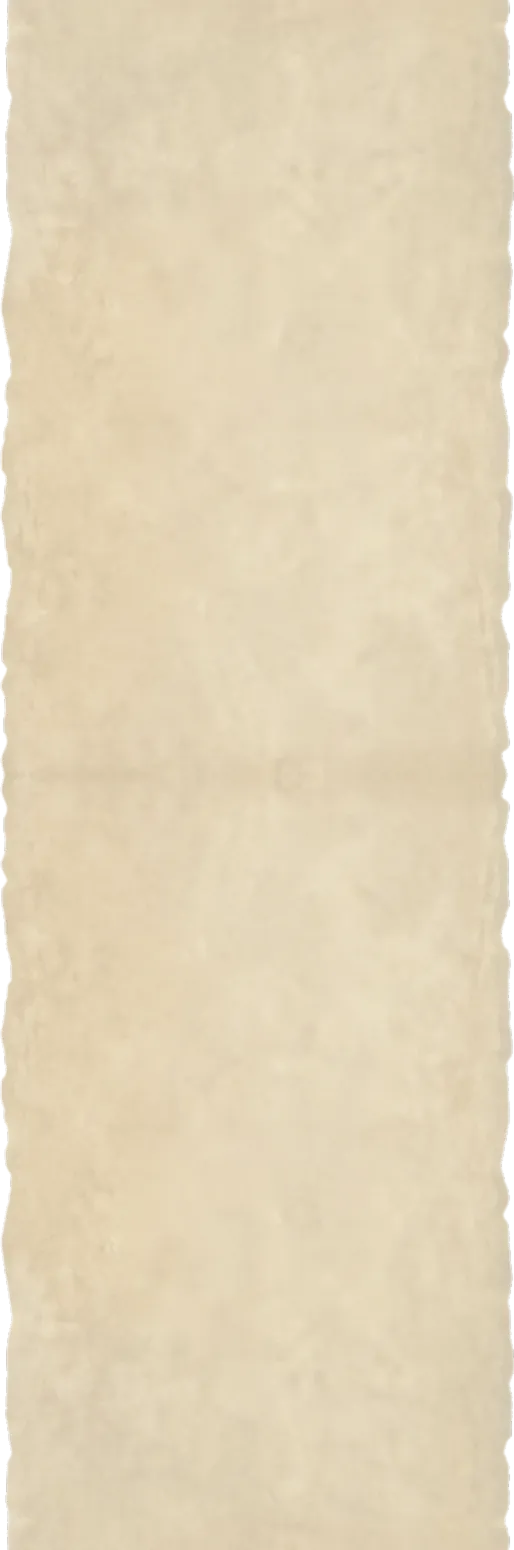
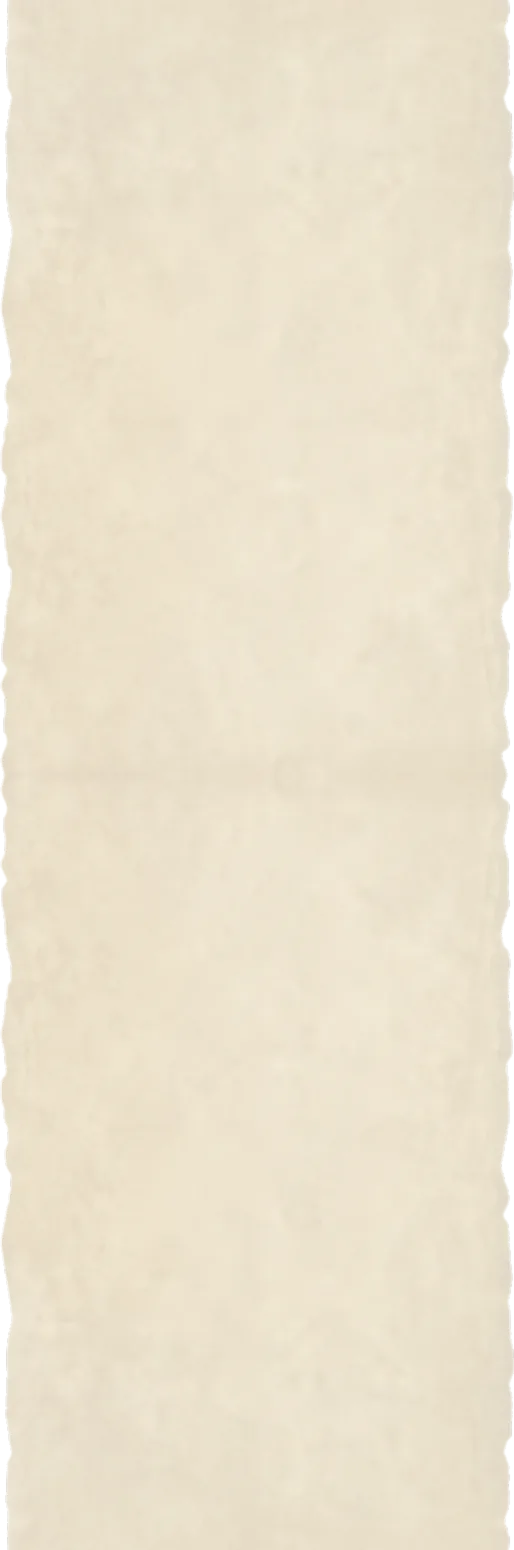
Add files via upload

diff --git a/index.html b/index.html
@@ -404,7 +404,7 @@
     padding:calc(var(--rw) * .09 + 26px) 30px calc(var(--rw) * .09 + 30px);
     border-style:solid; border-width:0 calc(var(--rw) * .675 * 14 / 514);
     border-image:url("caer-papiro.webp") 0 14 fill / 0 calc(var(--rw) * .675 * 14 / 514) / 0 stretch round;
-    background:#F3EBD6; background-clip:padding-box; color:#2E2410;
+    background:#F7F1E2; background-clip:padding-box; color:#2E2410;
     filter:drop-shadow(0 16px 26px rgba(0,0,0,.35));
     animation:uiUnroll .9s cubic-bezier(.2,.7,.2,1) both;}
   #unit-intro-modal .ui-roller-bottom{animation:uiFade .5s .55s ease both;}
@@ -449,7 +449,7 @@
     background:repeating-linear-gradient(180deg,#8A6B2F 0 6px,transparent 6px 11px); opacity:.7;}
   #unit-intro-modal .ui-step:last-child::before{display:none;}
   #unit-intro-modal .ui-dot{position:absolute; left:0; top:2px; width:32px; height:32px; border-radius:50%; display:grid; place-items:center;
-    background:var(--c); color:#fff; font:700 .85rem var(--font-body,sans-serif); box-shadow:0 0 0 3px #F6F0DE, 0 0 0 4.5px #8A6B2F;}
+    background:var(--c); color:#fff; font:700 .85rem var(--font-body,sans-serif); box-shadow:0 0 0 3px #F9F4E8, 0 0 0 4.5px #8A6B2F;}
   #unit-intro-modal .ui-card{background:rgba(255,250,232,.42); border:1px solid rgba(120,95,40,.35); border-left:4px solid var(--c); border-radius:12px; padding:12px 14px;}
   #unit-intro-modal .ui-card h4{margin:0 0 4px; font-family:Georgia,serif; font-size:1.1rem; color:var(--ct);}
   #unit-intro-modal .ui-quote{margin:0 0 10px; font-family:Georgia,serif; font-style:italic; font-size:1rem; line-height:1.7; color:#3A2A14;}
